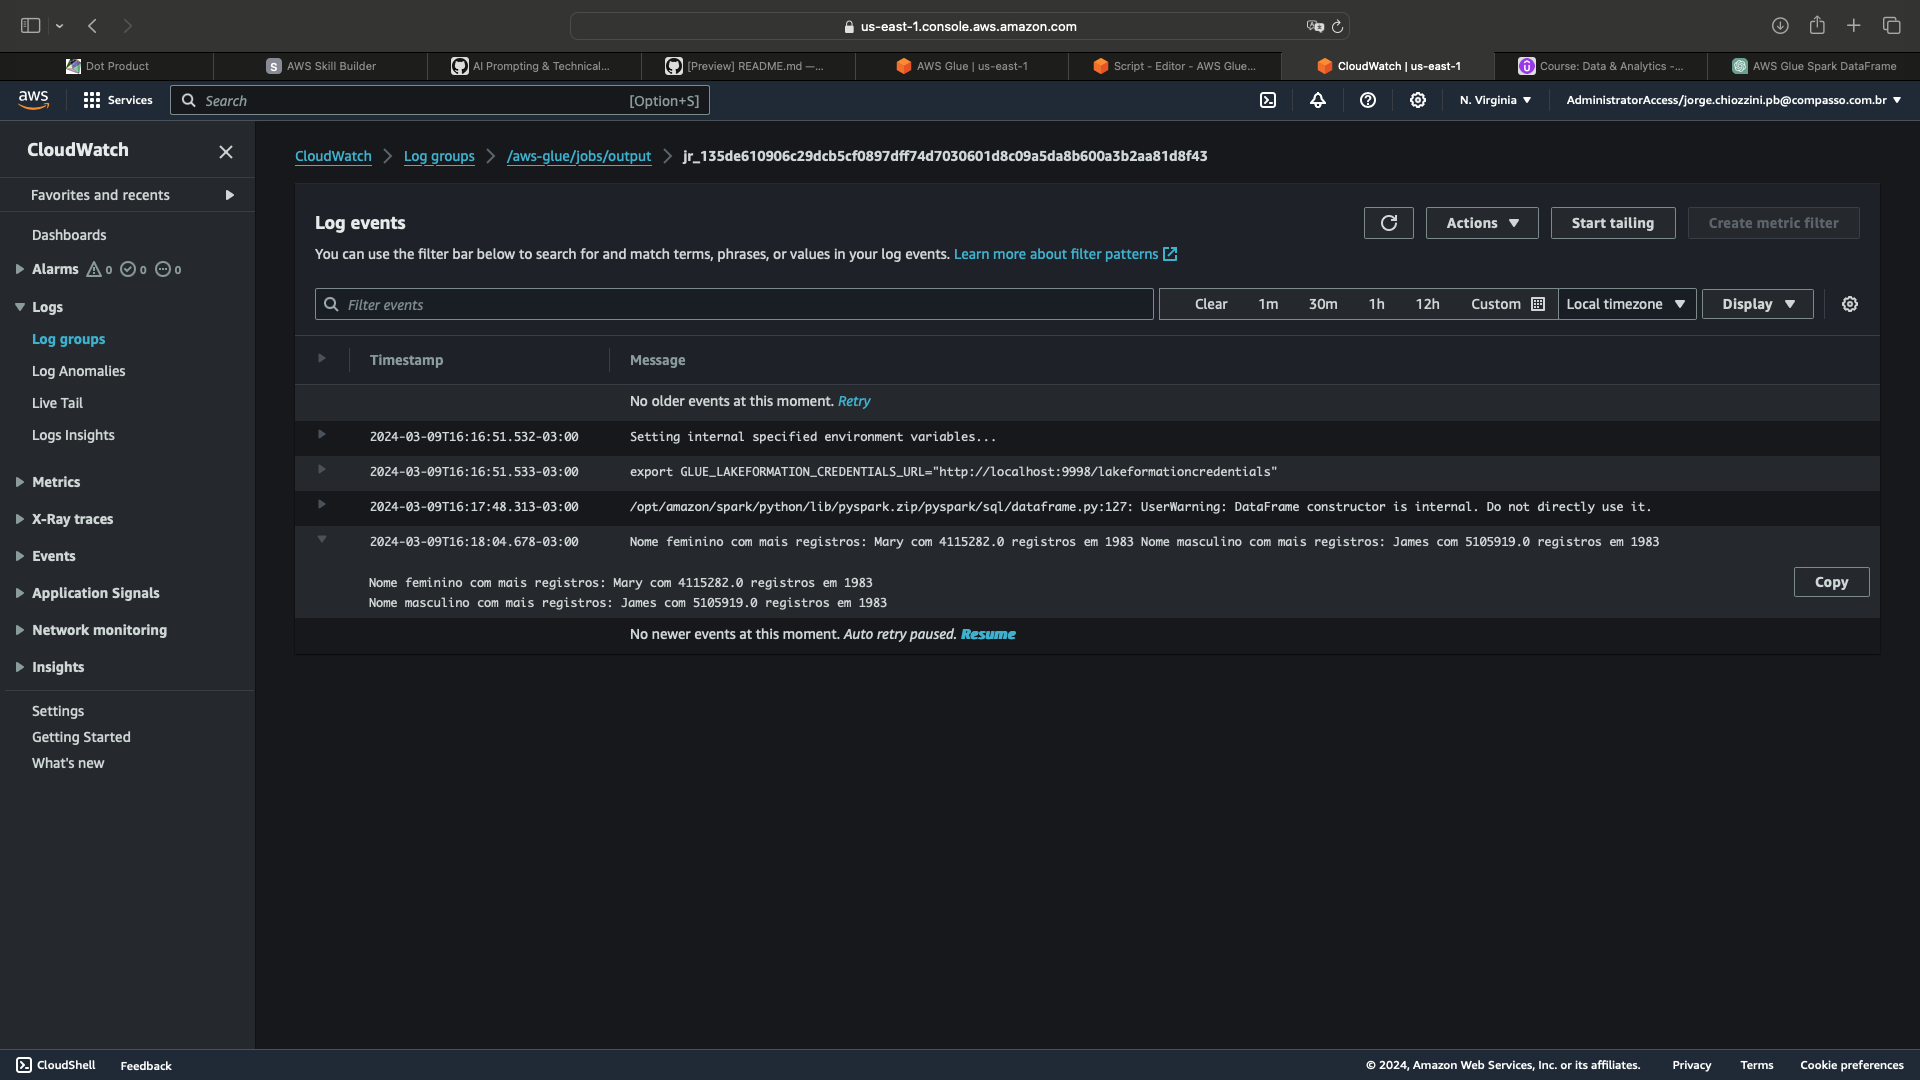
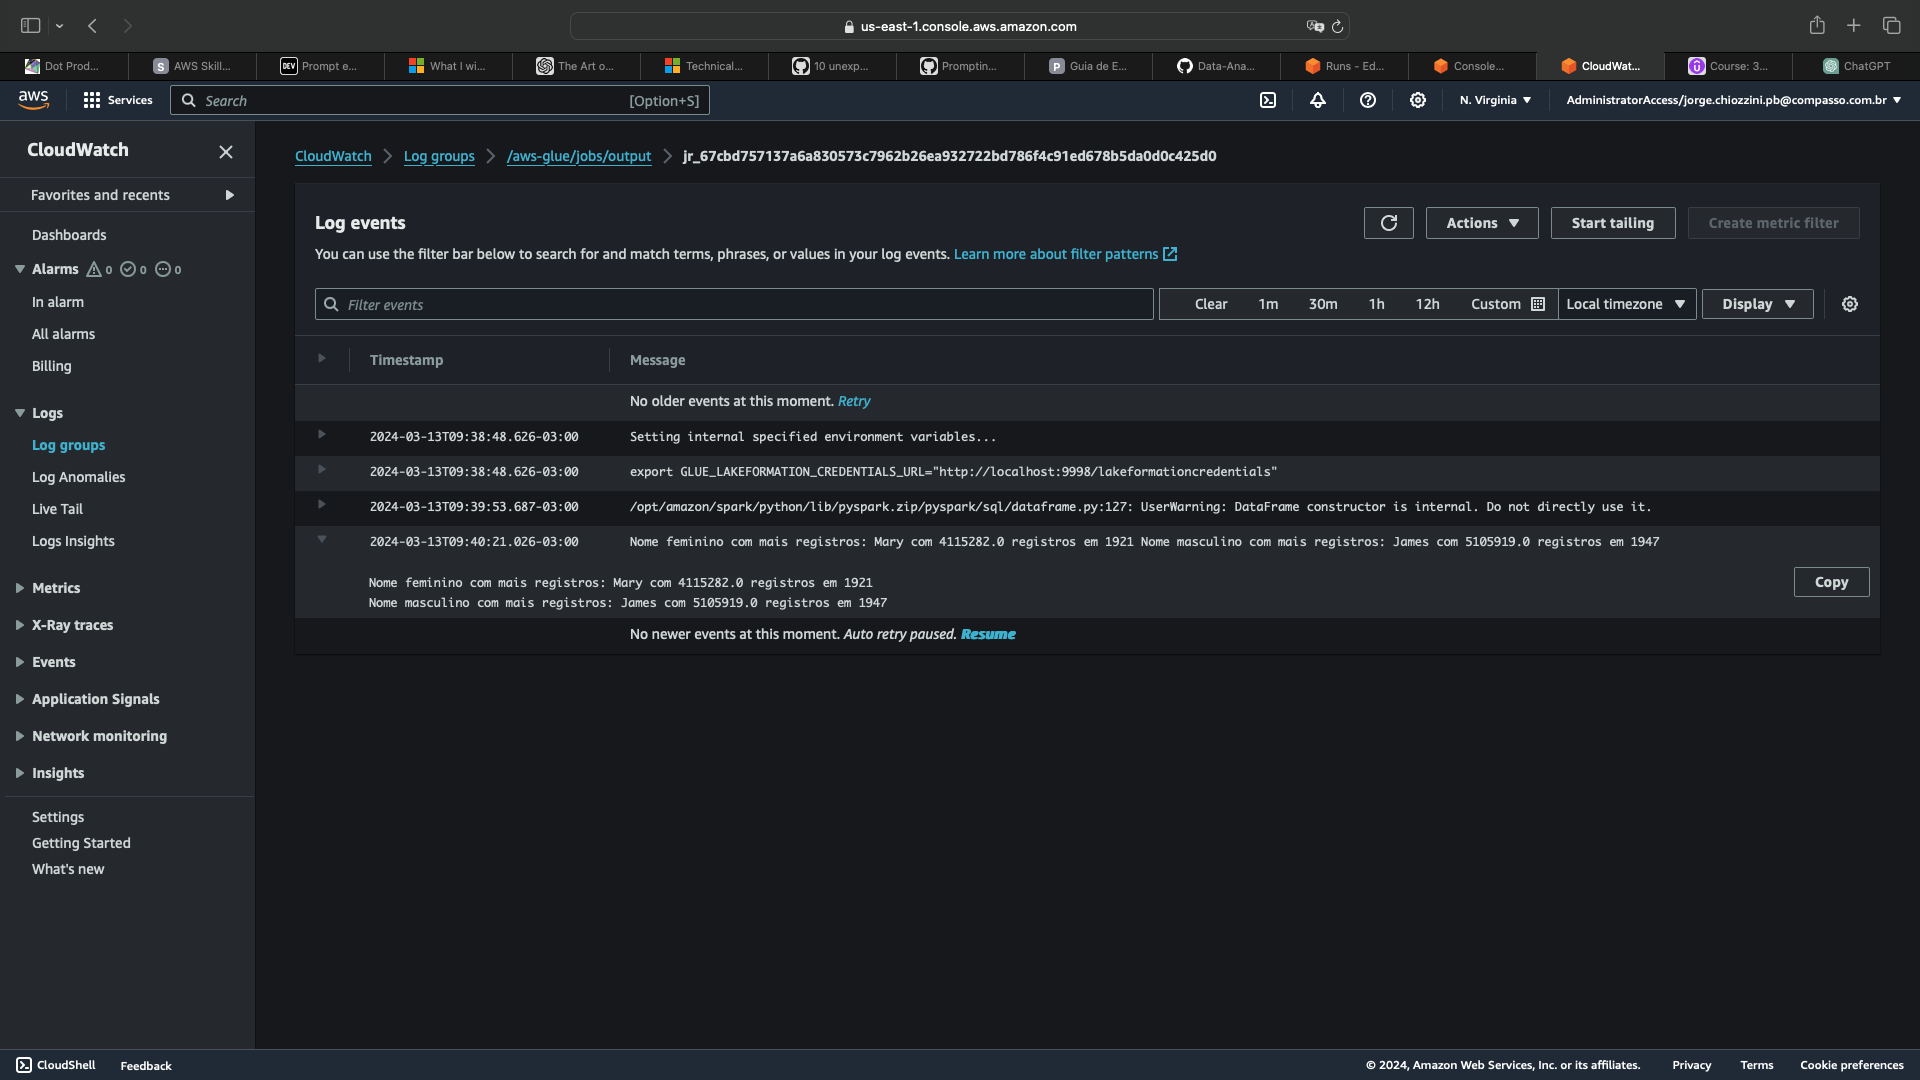
correção lab glue sprint 7

diff --git a/Sprint 7/evidencias/male_female.py b/Sprint 7/evidencias/male_female.py
@@ -7,6 +7,8 @@ from awsglue.utils import getResolvedOptions
 from pyspark.context import SparkContext
 from awsglue.context import GlueContext
 from awsglue.job import Job
+from pyspark.sql import SparkSession
+from pyspark.sql.functions import sum, desc
 
 ## @params: [JOB_NAME, S3_INPUT_PATH, S3_TARGET_PATH]
 args = getResolvedOptions(sys.argv, ['JOB_NAME', 'S3_INPUT_PATH', 'S3_TARGET_PATH'])
@@ -35,18 +37,45 @@ df = df.toDF()
 
 df = df.withColumn("ano", df["ano"].cast("int"))
 
-sum_by_name_sex = df.groupBy("nome", "sexo").agg({"total": "sum", "ano": "first"})
+sum_by_name_sex = (
+    df.groupBy("nome", "sexo", "ano")
+      .agg(sum("total").alias("total_registracoes"))
+)
 
-max_female_name = (sum_by_name_sex.filter(df.sexo == "F")
-                                   .orderBy(desc("sum(total)"))
-                                   .first())
+max_female_name = (
+    sum_by_name_sex.filter(df.sexo == "F")
+                   .groupBy("nome")
+                   .agg(sum("total_registracoes").alias("max_total"))
+                   .orderBy(desc("max_total"))
+                   .first()
+)
 
-max_male_name = (sum_by_name_sex.filter(df.sexo == "M")
-                                 .orderBy(desc("sum(total)"))
-                                 .first())
+max_male_name = (
+    sum_by_name_sex.filter(df.sexo == "M")
+                 .groupBy("nome")
+                 .agg(sum("total_registracoes").alias("max_total"))
+                 .orderBy(desc("max_total"))
+                 .first()
+)
 
-print("Nome feminino com mais registros:", max_female_name["nome"], "com", max_female_name["sum(total)"], "registros em", max_female_name["first(ano)"])
-print("Nome masculino com mais registros:", max_male_name["nome"], "com", max_male_name["sum(total)"], "registros em", max_male_name["first(ano)"])
+max_female_year = (
+    sum_by_name_sex.filter((df.sexo == "F") & (sum_by_name_sex.nome == max_female_name["nome"]))
+                   .orderBy(desc("total_registracoes"))
+                   .first()["ano"]
+)
 
+max_male_year = (
+    sum_by_name_sex.filter((df.sexo == "M") & (sum_by_name_sex.nome == max_male_name["nome"]))
+                 .orderBy(desc("total_registracoes"))
+                 .first()["ano"]
+)
+
+print("Nome feminino com mais registros:", max_female_name["nome"],
+      "com", max_female_name["max_total"],
+      "registros em", max_female_year)
+
+print("Nome masculino com mais registros:", max_male_name["nome"],
+      "com", max_male_name["max_total"],
+      "registros em", max_male_year)
 
 job.commit()
